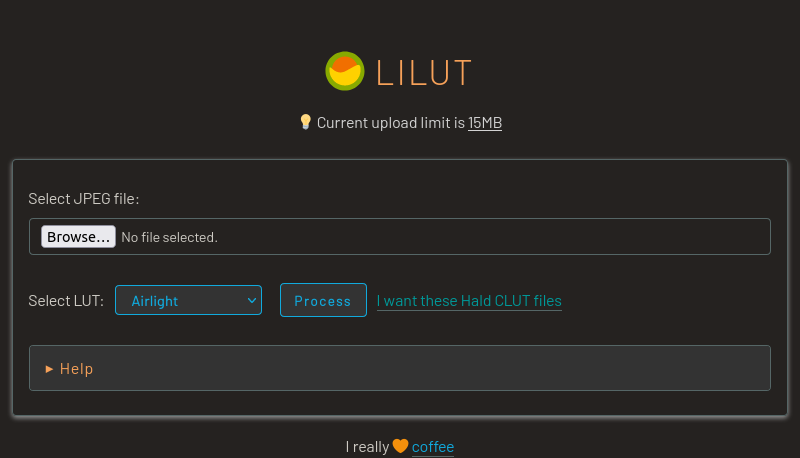
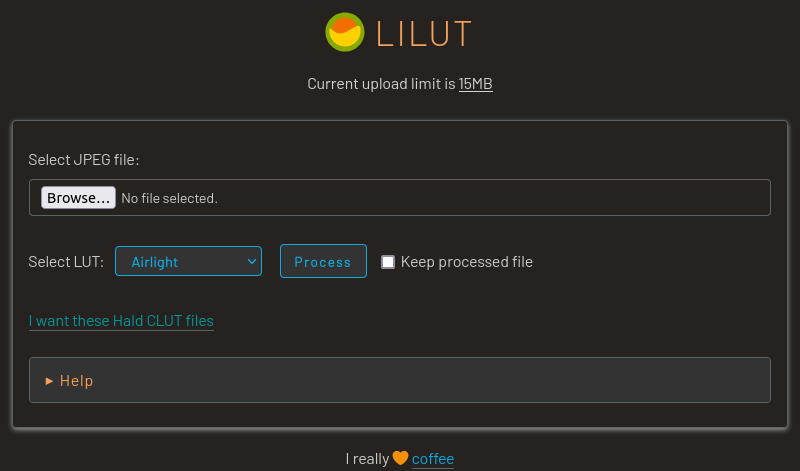
Keep check, reorder code

diff --git a/index.php b/index.php
@@ -42,58 +42,14 @@ include('config.php');
 			echo "<p>On openSUSE, use the <code>sudo zypper install php-imagick</code> command.</p>";
 			exit;
 		}
-		if (isset($_POST["submit"])) {
-			$target_file = "upload/" . basename($_FILES["fileToUpload"]["name"]);
-			$upload_ok = 1;
-			$image_file_type = strtolower(pathinfo($target_file, PATHINFO_EXTENSION));
-			$lut = $_POST['lut'];
-			$lut_name = strtolower(str_replace(" ", "-", basename($lut, ".png")));
-			$check = getimagesize($_FILES["fileToUpload"]["tmp_name"]);
-			if ($check !== false) {
-				$upload_ok = 1;
-			} else {
-				$upload_ok = 0;
-			}
-			if ($image_file_type != "jpg" && $image_file_type != "jpeg" && $image_file_type != "JPG" && $image_file_type != "JPEG") {
-				$upload_ok = 0;
-			}
-			if ($upload_ok == 0) {
-				echo "<script>";
-				echo 'alert("Something went wrong. Make sure you upload a JPEG file that does not exceed the upload limit.")';
-				echo "</script>";
-			} else {
-				if (move_uploaded_file($_FILES["fileToUpload"]["tmp_name"], $target_file)) {
-					$imagick = new \Imagick('upload/' . $_FILES["fileToUpload"]["name"]);
-					$imagick_palette = new \Imagick(realpath("luts/$lut"));
-					$imagick->haldClutImage($imagick_palette);
-					$imagick->writeImage($lut_name . "_" . basename($_FILES["fileToUpload"]["name"]));
-					$file = $lut_name . "_"  . basename($_FILES["fileToUpload"]["name"]);
-					ob_start();
-					while (ob_get_status()) {
-						ob_end_clean();
-					}
-					header('Content-type: image/jpeg');
-					header('Content-Disposition: attachment; filename="' . $file . '"');
-					readfile($file);
-					if ($keep) {
-						rename($file, "result/" . $file);
-					} else {
-						unlink('upload/' . $_FILES["fileToUpload"]["name"]);
-						unlink($file);
-					}
-				} else {
-					echo "<script>";
-					echo 'alert("Error uploading the file.")';
-					echo "</script>";
-				}
-			}
-		}
 		?>
+
 		<form style="margin-top: 1em;" action=" " method="POST" enctype="multipart/form-data">
 			<label for="fileToUpload">Select JPEG file:</label>
 			<input style="margin-bottom: 1.5em; margin-top: 0.5em;" type="file" name="fileToUpload" id="fileToUpload">
 			<label for="lut">Select LUT:</label>
 			<select style="margin-bottom: 1.5em; margin-top: 0.5em;" name="lut">
+
 				<?php
 				$files = glob("luts/*");
 				foreach ($files as $file) {
@@ -104,7 +60,8 @@ include('config.php');
 				?>
 			</select>
 
-			<button style="margin-bottom: 1.5em;" type="submit" name="submit">Process</button> <a style="color: #009999;" href="https://gumroad.com/l/hald-clut-pack">I want these Hald CLUT files</a>
+			<button style="margin-bottom: 1.5em;" type="submit" name="submit">Process</button> <input type="checkbox" name="keep" value="ok"> Keep processed file
+			<div style="margin-bottom: 1.5em; margin-top: .5em;"><a style="color: #009999;" href="https://gumroad.com/l/hald-clut-pack">I want these Hald CLUT files</a></div>
 		</form>
 		<details>
 			<summary style="letter-spacing: 1px; color: #f6a159ff;">Help</summary>
@@ -128,6 +85,56 @@ include('config.php');
 		</details>
 	</div>
 	<p class="text-center"><?php echo $footer ?></p>
+
+	<?php
+	if (isset($_POST["submit"])) {
+		$target_file = "upload/" . basename($_FILES["fileToUpload"]["name"]);
+		$upload_ok = 1;
+		$image_file_type = strtolower(pathinfo($target_file, PATHINFO_EXTENSION));
+		$lut = $_POST['lut'];
+		$lut_name = strtolower(str_replace(" ", "-", basename($lut, ".png")));
+		$check = getimagesize($_FILES["fileToUpload"]["tmp_name"]);
+		if ($check !== false) {
+			$upload_ok = 1;
+		} else {
+			$upload_ok = 0;
+		}
+		if ($image_file_type != "jpg" && $image_file_type != "jpeg" && $image_file_type != "JPG" && $image_file_type != "JPEG") {
+			$upload_ok = 0;
+		}
+		if ($upload_ok == 0) {
+			echo "<script>";
+			echo 'alert("Something went wrong. Make sure you upload a JPEG file that does not exceed the upload limit.")';
+			echo "</script>";
+		} else {
+			if (move_uploaded_file($_FILES["fileToUpload"]["tmp_name"], $target_file)) {
+				$imagick = new \Imagick('upload/' . $_FILES["fileToUpload"]["name"]);
+				$imagick_palette = new \Imagick(realpath("luts/$lut"));
+				$imagick->haldClutImage($imagick_palette);
+				$imagick->writeImage($lut_name . "_" . basename($_FILES["fileToUpload"]["name"]));
+				$file = $lut_name . "_"  . basename($_FILES["fileToUpload"]["name"]);
+				ob_start();
+				while (ob_get_status()) {
+					ob_end_clean();
+				}
+				header('Content-type: image/jpeg');
+				header('Content-Disposition: attachment; filename="' . $file . '"');
+				readfile($file);
+				if ($_POST['keep'] == 'ok') {
+					rename($file, "result/" . $file);
+				} else {
+					unlink('upload/' . $_FILES["fileToUpload"]["name"]);
+					unlink($file);
+				}
+			} else {
+				echo "<script>";
+				echo 'alert("Error uploading the file.")';
+				echo "</script>";
+			}
+		}
+	}
+	?>
+
 </body>
 
 </html>

diff --git a/config.php b/config.php
@@ -1,8 +1,6 @@
 <?php
     // Theme (light, dark, sepia)
     $theme = "dark";
-    // Keep uploaded and resulting files
-    $keep = false;
     // Footer
     $footer = "I really 🧡 <a href='https://www.paypal.com/paypalme/dmpop'>coffee</a>";
 ?>
